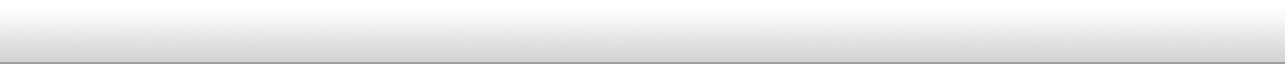
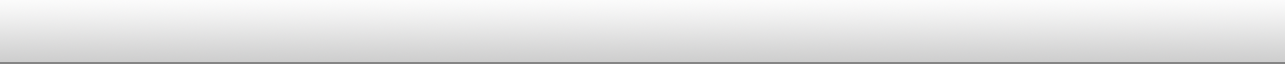
Small changes

Changed region(s): [[0.0, 0.9688, 1.0, 1.0]]

diff --git a/AirBrowser/Form1.Designer.cs b/AirBrowser/Form1.Designer.cs
@@ -45,18 +45,13 @@
             this.btnFb = new System.Windows.Forms.Button();
             this.btn9gag = new System.Windows.Forms.Button();
             this.btnTwitch = new System.Windows.Forms.Button();
-            this.menuStrip1 = new System.Windows.Forms.MenuStrip();
-            this.menuToolStripMenuItem = new System.Windows.Forms.ToolStripMenuItem();
-            this.historyToolStripMenuItem = new System.Windows.Forms.ToolStripMenuItem();
-            this.findToolStripMenuItem = new System.Windows.Forms.ToolStripMenuItem();
             this.btnBack = new System.Windows.Forms.Button();
-            this.pictureBox1 = new System.Windows.Forms.PictureBox();
             this.btnYahoo = new System.Windows.Forms.Button();
+            this.pictureBox1 = new System.Windows.Forms.PictureBox();
             this.picGradient = new System.Windows.Forms.PictureBox();
             this.tabControl.SuspendLayout();
             this.tabPage1.SuspendLayout();
             ((System.ComponentModel.ISupportInitialize)(this.fileSystemWatcher1)).BeginInit();
-            this.menuStrip1.SuspendLayout();
             ((System.ComponentModel.ISupportInitialize)(this.pictureBox1)).BeginInit();
             ((System.ComponentModel.ISupportInitialize)(this.picGradient)).BeginInit();
             this.SuspendLayout();
@@ -68,7 +63,7 @@
             | System.Windows.Forms.AnchorStyles.Right)));
             this.tabControl.Controls.Add(this.tabPage1);
             this.tabControl.ItemSize = new System.Drawing.Size(100, 0);
-            this.tabControl.Location = new System.Drawing.Point(-4, 79);
+            this.tabControl.Location = new System.Drawing.Point(-4, 58);
             this.tabControl.Name = "tabControl";
             this.tabControl.SelectedIndex = 0;
             this.tabControl.Size = new System.Drawing.Size(1285, 644);
@@ -237,44 +232,6 @@
             this.btnTwitch.UseVisualStyleBackColor = false;
             this.btnTwitch.Click += new System.EventHandler(this.btnTwitch_Click);
             // 
-            // menuStrip1
-            // 
-            this.menuStrip1.Anchor = ((System.Windows.Forms.AnchorStyles)((System.Windows.Forms.AnchorStyles.Top | System.Windows.Forms.AnchorStyles.Right)));
-            this.menuStrip1.BackColor = System.Drawing.Color.White;
-            this.menuStrip1.Dock = System.Windows.Forms.DockStyle.None;
-            this.menuStrip1.Font = new System.Drawing.Font("Segoe UI Semibold", 9F, System.Drawing.FontStyle.Bold, System.Drawing.GraphicsUnit.Point, ((byte)(238)));
-            this.menuStrip1.Items.AddRange(new System.Windows.Forms.ToolStripItem[] {
-            this.menuToolStripMenuItem});
-            this.menuStrip1.LayoutStyle = System.Windows.Forms.ToolStripLayoutStyle.HorizontalStackWithOverflow;
-            this.menuStrip1.Location = new System.Drawing.Point(1216, 0);
-            this.menuStrip1.Name = "menuStrip1";
-            this.menuStrip1.RenderMode = System.Windows.Forms.ToolStripRenderMode.Professional;
-            this.menuStrip1.RightToLeft = System.Windows.Forms.RightToLeft.Yes;
-            this.menuStrip1.Size = new System.Drawing.Size(58, 24);
-            this.menuStrip1.TabIndex = 15;
-            this.menuStrip1.Text = "menuStrip1";
-            // 
-            // menuToolStripMenuItem
-            // 
-            this.menuToolStripMenuItem.DropDownItems.AddRange(new System.Windows.Forms.ToolStripItem[] {
-            this.historyToolStripMenuItem,
-            this.findToolStripMenuItem});
-            this.menuToolStripMenuItem.Name = "menuToolStripMenuItem";
-            this.menuToolStripMenuItem.Size = new System.Drawing.Size(50, 20);
-            this.menuToolStripMenuItem.Text = "Menu";
-            // 
-            // historyToolStripMenuItem
-            // 
-            this.historyToolStripMenuItem.Name = "historyToolStripMenuItem";
-            this.historyToolStripMenuItem.Size = new System.Drawing.Size(112, 22);
-            this.historyToolStripMenuItem.Text = "History";
-            // 
-            // findToolStripMenuItem
-            // 
-            this.findToolStripMenuItem.Name = "findToolStripMenuItem";
-            this.findToolStripMenuItem.Size = new System.Drawing.Size(112, 22);
-            this.findToolStripMenuItem.Text = "Find";
-            // 
             // btnBack
             // 
             this.btnBack.BackColor = System.Drawing.Color.FromArgb(((int)(((byte)(7)))), ((int)(((byte)(135)))), ((int)(((byte)(220)))));
@@ -291,6 +248,20 @@
             this.btnBack.UseVisualStyleBackColor = false;
             this.btnBack.Click += new System.EventHandler(this.btnBack_Click);
             // 
+            // btnYahoo
+            // 
+            this.btnYahoo.BackColor = System.Drawing.Color.FromArgb(((int)(((byte)(252)))), ((int)(((byte)(252)))), ((int)(((byte)(252)))));
+            this.btnYahoo.FlatAppearance.BorderColor = System.Drawing.Color.Gainsboro;
+            this.btnYahoo.FlatStyle = System.Windows.Forms.FlatStyle.Flat;
+            this.btnYahoo.Font = new System.Drawing.Font("Segoe UI", 6.75F, System.Drawing.FontStyle.Regular, System.Drawing.GraphicsUnit.Point, ((byte)(238)));
+            this.btnYahoo.Location = new System.Drawing.Point(604, 32);
+            this.btnYahoo.Name = "btnYahoo";
+            this.btnYahoo.Size = new System.Drawing.Size(73, 30);
+            this.btnYahoo.TabIndex = 16;
+            this.btnYahoo.Text = "Yahoo";
+            this.btnYahoo.UseVisualStyleBackColor = false;
+            this.btnYahoo.Click += new System.EventHandler(this.btnYahoo_Click);
+            // 
             // pictureBox1
             // 
             this.pictureBox1.BackColor = System.Drawing.Color.FromArgb(((int)(((byte)(252)))), ((int)(((byte)(252)))), ((int)(((byte)(252)))));
@@ -300,25 +271,14 @@
             this.pictureBox1.TabIndex = 10;
             this.pictureBox1.TabStop = false;
             // 
-            // btnYahoo
-            // 
-            this.btnYahoo.BackColor = System.Drawing.Color.FromArgb(((int)(((byte)(252)))), ((int)(((byte)(252)))), ((int)(((byte)(252)))));
-            this.btnYahoo.FlatAppearance.BorderColor = System.Drawing.Color.Gainsboro;
-            this.btnYahoo.FlatStyle = System.Windows.Forms.FlatStyle.Flat;
-            this.btnYahoo.Font = new System.Drawing.Font("Segoe UI", 6.75F, System.Drawing.FontStyle.Regular, System.Drawing.GraphicsUnit.Point, ((byte)(238)));
-            this.btnYahoo.Location = new System.Drawing.Point(603, 32);
-            this.btnYahoo.Name = "btnYahoo";
-            this.btnYahoo.Size = new System.Drawing.Size(73, 30);
-            this.btnYahoo.TabIndex = 16;
-            this.btnYahoo.Text = "Yahoo";
-            this.btnYahoo.UseVisualStyleBackColor = false;
-            this.btnYahoo.Click += new System.EventHandler(this.btnYahoo_Click);
-            // 
             // picGradient
             // 
+            this.picGradient.Anchor = ((System.Windows.Forms.AnchorStyles)(((System.Windows.Forms.AnchorStyles.Top | System.Windows.Forms.AnchorStyles.Left) 
+            | System.Windows.Forms.AnchorStyles.Right)));
+            this.picGradient.BackgroundImage = global::AirBrowser.Properties.Resources.bar1;
             this.picGradient.Location = new System.Drawing.Point(-4, 0);
             this.picGradient.Name = "picGradient";
-            this.picGradient.Size = new System.Drawing.Size(1285, 73);
+            this.picGradient.Size = new System.Drawing.Size(1285, 63);
             this.picGradient.TabIndex = 17;
             this.picGradient.TabStop = false;
             // 
@@ -339,9 +299,8 @@
             this.Controls.Add(this.btnFb);
             this.Controls.Add(this.btnTwitch);
             this.Controls.Add(this.btn9gag);
-            this.Controls.Add(this.tabControl);
-            this.Controls.Add(this.menuStrip1);
             this.Controls.Add(this.picGradient);
+            this.Controls.Add(this.tabControl);
             this.DoubleBuffered = true;
             this.Icon = ((System.Drawing.Icon)(resources.GetObject("$this.Icon")));
             this.Name = "Form1";
@@ -351,8 +310,6 @@
             this.tabControl.ResumeLayout(false);
             this.tabPage1.ResumeLayout(false);
             ((System.ComponentModel.ISupportInitialize)(this.fileSystemWatcher1)).EndInit();
-            this.menuStrip1.ResumeLayout(false);
-            this.menuStrip1.PerformLayout();
             ((System.ComponentModel.ISupportInitialize)(this.pictureBox1)).EndInit();
             ((System.ComponentModel.ISupportInitialize)(this.picGradient)).EndInit();
             this.ResumeLayout(false);
@@ -380,10 +337,6 @@
         private System.Windows.Forms.Button btnFb;
         private System.Windows.Forms.Button btnTwitch;
         private System.Windows.Forms.Button btn9gag;
-        private System.Windows.Forms.MenuStrip menuStrip1;
-        private System.Windows.Forms.ToolStripMenuItem menuToolStripMenuItem;
-        private System.Windows.Forms.ToolStripMenuItem historyToolStripMenuItem;
-        private System.Windows.Forms.ToolStripMenuItem findToolStripMenuItem;
         private System.Windows.Forms.Button btnYahoo;
         private System.Windows.Forms.PictureBox picGradient;
     }

diff --git a/AirBrowser/Form1.cs b/AirBrowser/Form1.cs
@@ -90,12 +90,12 @@ namespace AirBrowser
             newButton.Name = index.ToString();
            
             newButton.Text = index.ToString();
-            newButton.Size = new Size(tabWidth, 29);
-           
+            newButton.Size = new Size(tabWidth, 31);
             newButton.TextAlign = ContentAlignment.MiddleLeft;
             newButton.FlatStyle = FlatStyle.Flat;
+            newButton.ForeColor = Color.DimGray;
             newButton.FlatAppearance.BorderSize = 0;
-            newButton.Location = new Point(pos, 0);
+            newButton.Location = new Point(pos, -1);
             newButton.Click += NewButton_Click;
             newButton.MouseUp += NewButton_MouseUp;
             newButton.MouseMove += NewButton_MouseMove;
@@ -105,7 +105,7 @@ namespace AirBrowser
             Controls.Add(newButton);
             newButton.BringToFront();
             indexOfSelectedButton = buttons.Count-1;
-            pos = pos + tabWidth;
+            pos = pos + tabWidth + 1;
             index++;
             ChangeButtonStyleToBackground(buttons.IndexOf(newButton));
 
@@ -140,7 +140,7 @@ namespace AirBrowser
             if (isMouseUp)
             {
                 Button button = sender as Button;
-                newLocationX = tabWidth * (buttons.IndexOf(button) + 1);
+                newLocationX = (tabWidth * (buttons.IndexOf(button) + 1));
                 button.BringToFront();
                 button.Location = new Point(button.Location.X + e.Location.X - (tabWidth/2), button.Location.Y);
 
@@ -189,8 +189,15 @@ namespace AirBrowser
             for (int i = 0; i < buttons.Count; i++)
             {
                 if (i != index)
+                {
                     buttons[i].BackColor = Color.Gainsboro;
-                else buttons[i].BackColor = Color.White;
+                    buttons[i].ForeColor = Color.DimGray;
+                }
+                else
+                {
+                    buttons[i].BackColor = Color.White;
+                    buttons[i].ForeColor = Color.Black;
+                }
             }
         }
 
@@ -228,7 +235,7 @@ namespace AirBrowser
         private void Reposition ()
         {
             for (int i = 0; i < buttons.Count; i++)
-                buttons[i].Location = new Point(i * tabWidth, buttons[i].Location.Y);
+                buttons[i].Location = new Point((i * tabWidth)+1, buttons[i].Location.Y);
         }
 
         private void button1_Click(object sender, EventArgs e)
@@ -236,7 +243,7 @@ namespace AirBrowser
            
             if (tabControl.TabPages.Count-1 > 0)
             {
-                pos = pos - tabWidth;
+                pos = pos - tabWidth-1;
                 int removeIndex = tabControl.SelectedIndex;
                
                 Controls.Remove(pages[removeIndex]);

diff --git a/AirBrowser/Properties/Resources.Designer.cs b/AirBrowser/Properties/Resources.Designer.cs
@@ -69,5 +69,15 @@ namespace AirBrowser.Properties {
                 return ((System.Drawing.Bitmap)(obj));
             }
         }
+        
+        /// <summary>
+        ///   Looks up a localized resource of type System.Drawing.Bitmap.
+        /// </summary>
+        internal static System.Drawing.Bitmap bar1 {
+            get {
+                object obj = ResourceManager.GetObject("bar1", resourceCulture);
+                return ((System.Drawing.Bitmap)(obj));
+            }
+        }
     }
 }
